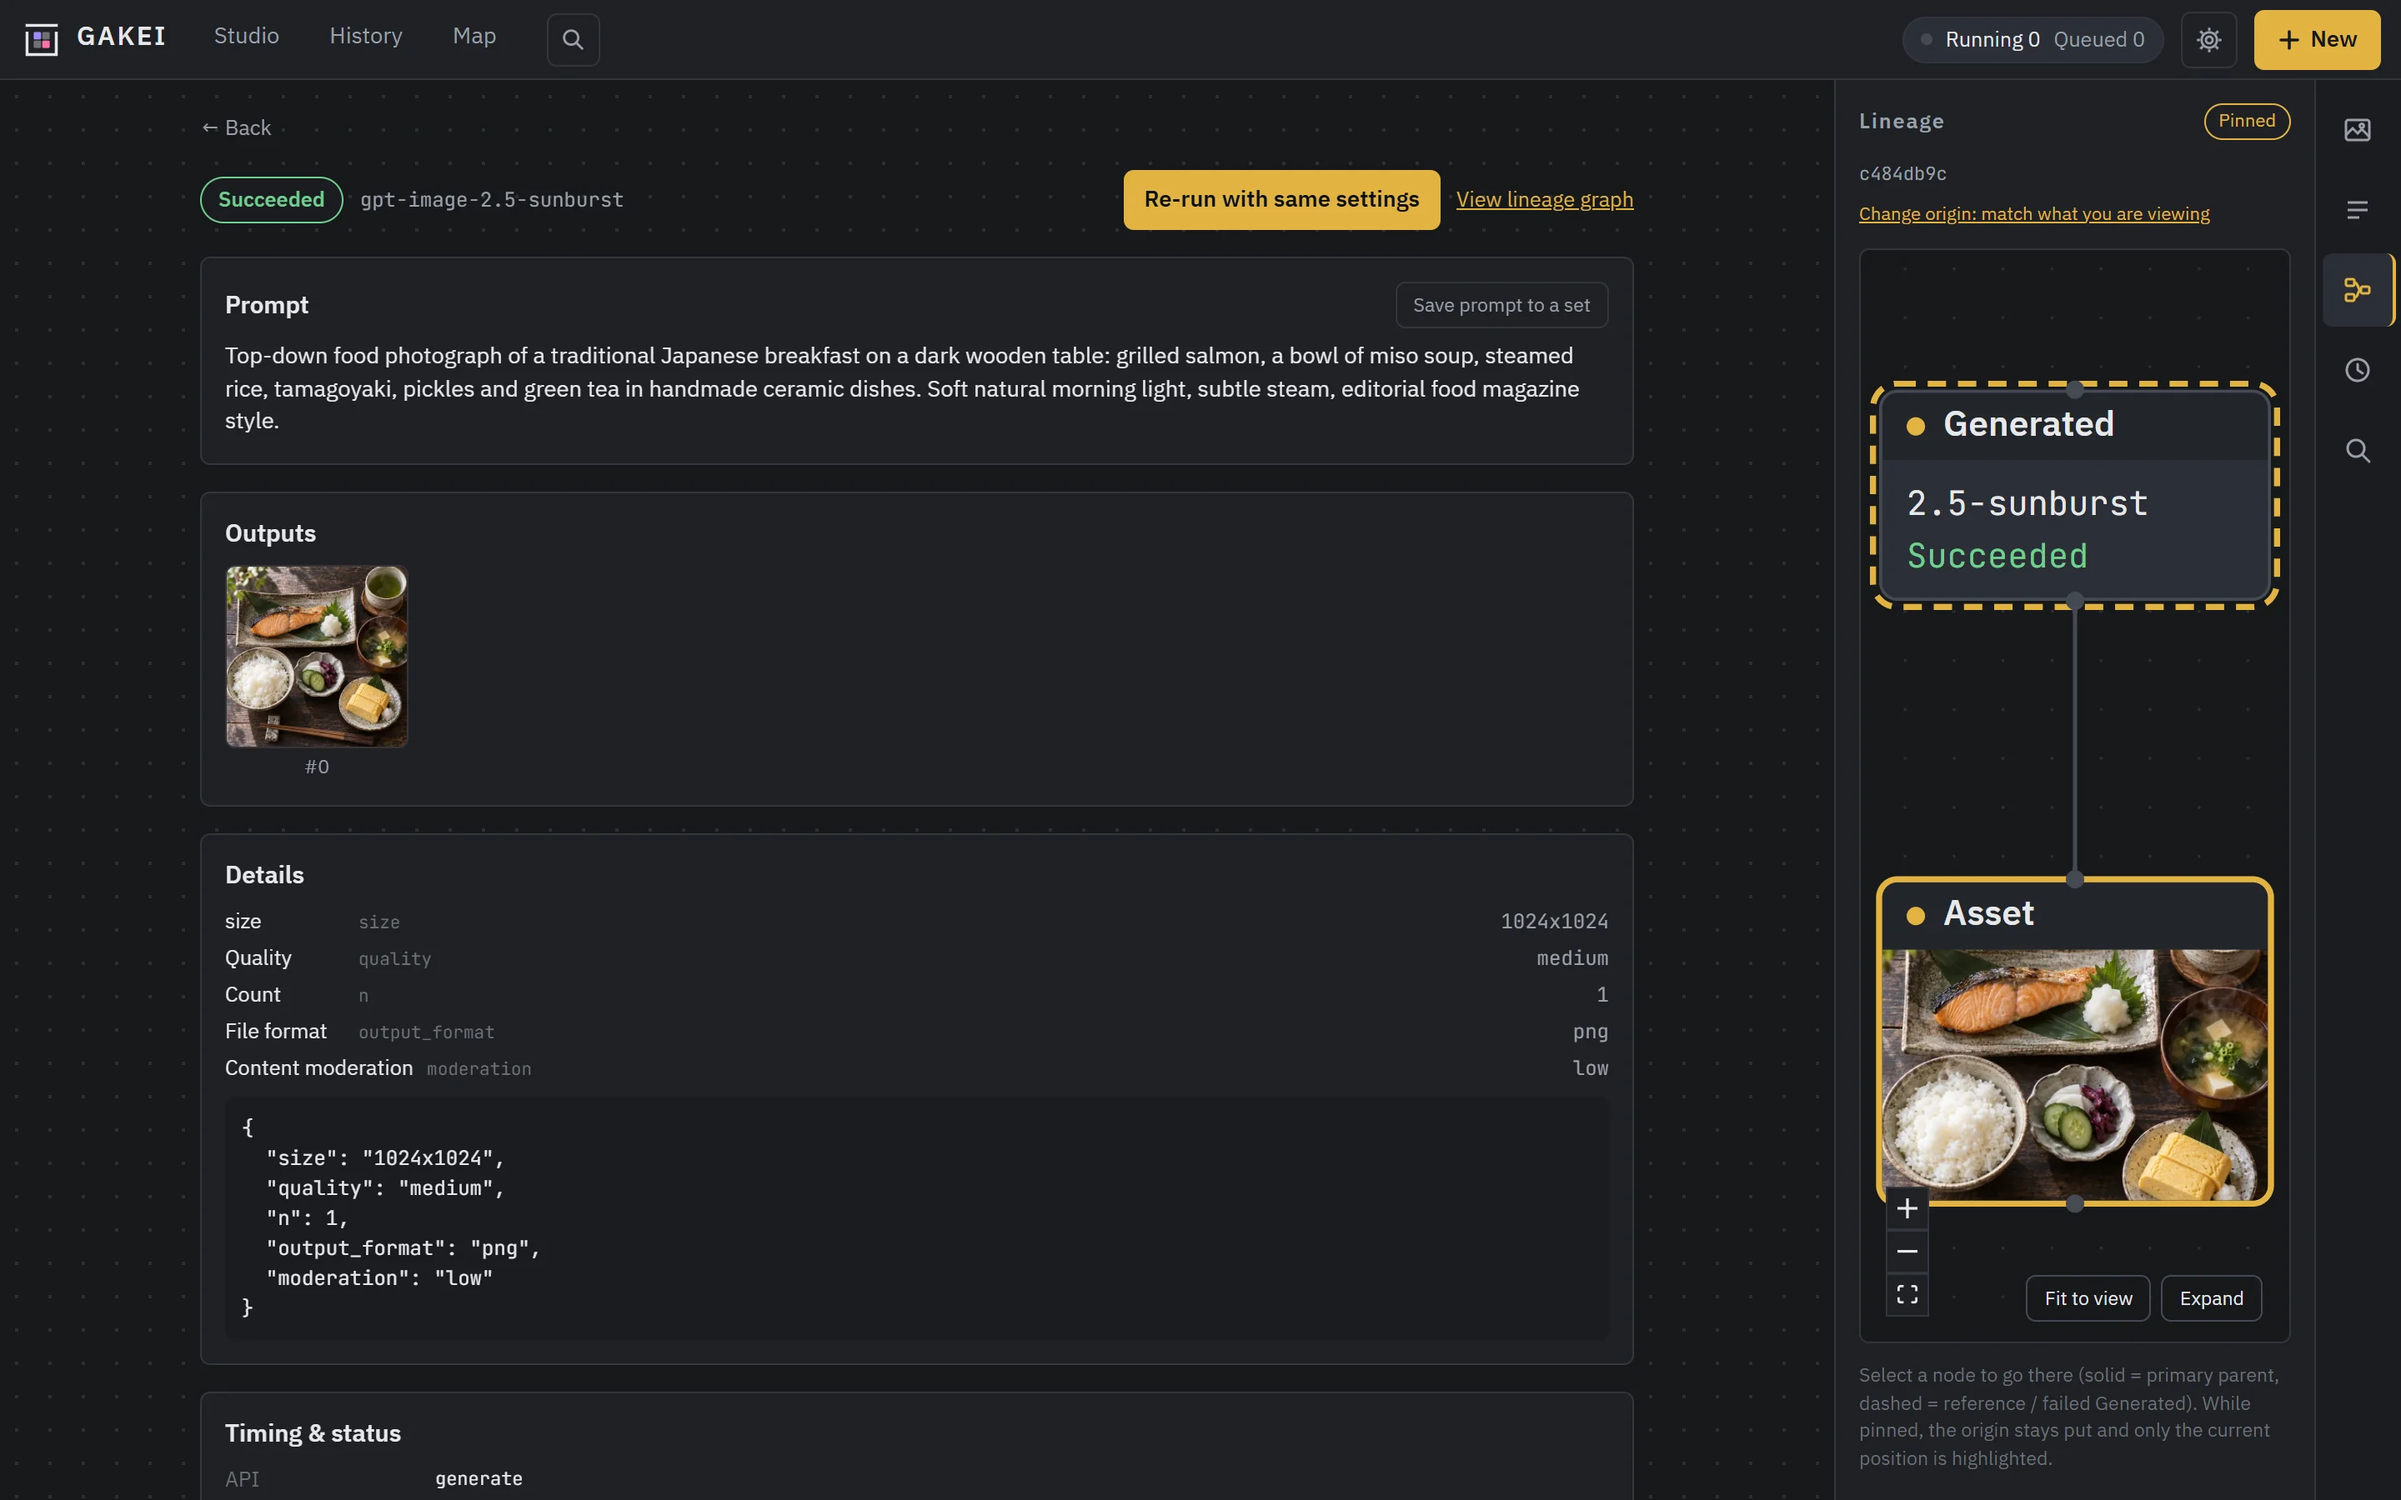
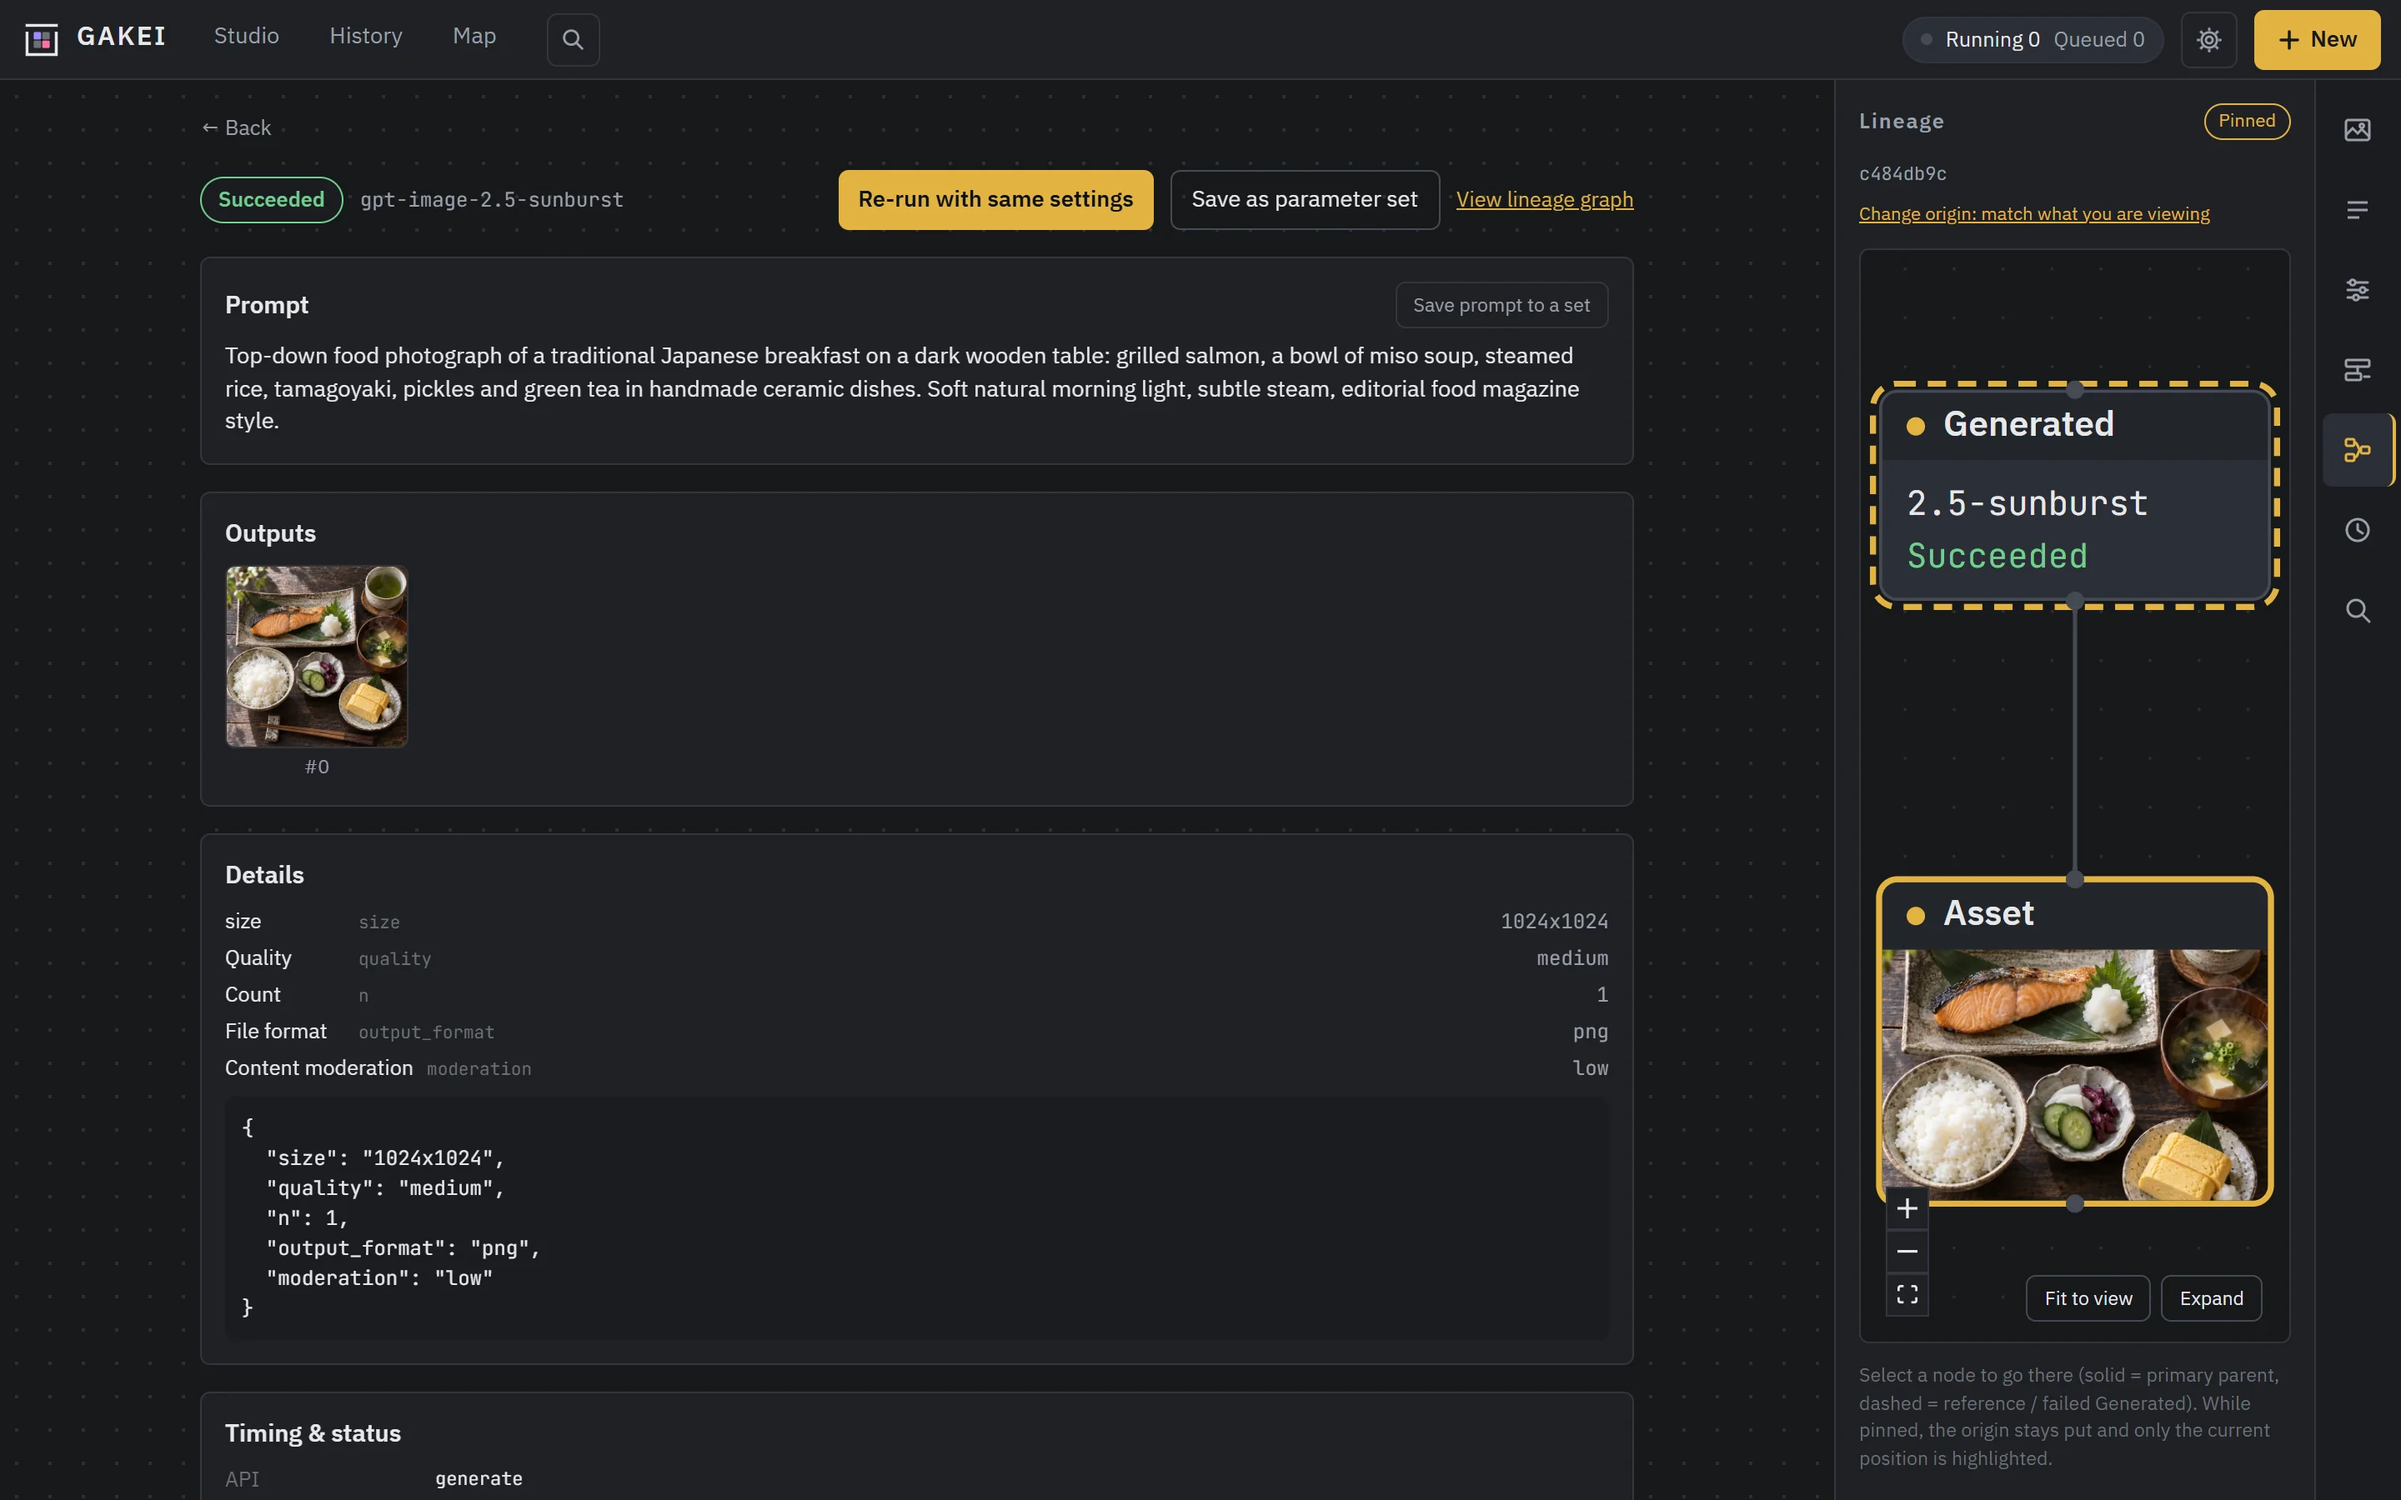
docs: v0.7.0 の画面に合わせてスクリーンショットを撮り直し、マップ内検索と指示での検索を加える
- マップは立体の表示に差し替え、マップの中で文章で探した画面を加えた
- 意味での検索は「画像 / 指示」の切り替えが見える画面にし、指示での検索の画面を加えた
- そのほかの画面も、今のアイコンレールとフォームに合わせて撮り直した

Changed region(s): [[0.3438, 0.0933, 0.625, 0.1556], [0.9688, 0.28, 1.0, 0.3111], [0.9688, 0.1867, 1.0, 0.2178]]

diff --git a/README.md b/README.md
@@ -32,8 +32,10 @@ OpenAI API のキーがあれば動く。画像はローカルのディレクト
 | ![系列グラフ](docs/images/lineage-ja.webp) | ![編集前と比較](docs/images/compare-ja.webp) |
 | **Generated の詳細と系列** | **スケッチを描いて入力にする** |
 | ![Generated の詳細と系列](docs/images/detail-ja.webp) | ![スケッチを描いて入力にする](docs/images/sketch-ja.webp) |
-| **マップ(似た画像のネットワークと系列)** | **意味で検索(「和風の版画」)** |
-| ![マップ(似た画像のネットワークと系列)](docs/images/map-ja.webp) | ![意味で検索(「和風の版画」)](docs/images/semantic-ja.webp) |
+| **マップ(立体。似た画像が近くに集まる)** | **マップの中で文章で探す(「和風の版画」)** |
+| ![マップ(立体。似た画像が近くに集まる)](docs/images/map-ja.webp) | ![マップの中で文章で探す(「和風の版画」)](docs/images/map-search-ja.webp) |
+| **意味で検索(「和風の版画」)** | **指示(プロンプト)で検索(「猫を足す」)** |
+| ![意味で検索(「和風の版画」)](docs/images/semantic-ja.webp) | ![指示(プロンプト)で検索(「猫を足す」)](docs/images/prompt-search-ja.webp) |
 
 スクリーンショット内の画像は、手描きのスケッチを除き GPT Image 2.5 で生成したサンプル。
 

diff --git a/README.en.md b/README.en.md
@@ -31,8 +31,10 @@ All it needs is an OpenAI API key. Images are stored in a local directory and me
 | ![Lineage graph](docs/images/lineage-en.webp) | ![Compare before and after an edit](docs/images/compare-en.webp) |
 | **Run details with the lineage sidebar** | **Drawing a sketch to use as input** |
 | ![Run details with the lineage sidebar](docs/images/detail-en.webp) | ![Drawing a sketch to use as input](docs/images/sketch-en.webp) |
-| **Map (network of similar images with lineage)** | **Semantic search ("Japanese woodblock print")** |
-| ![Map (network of similar images with lineage)](docs/images/map-en.webp) | ![Semantic search ("Japanese woodblock print")](docs/images/semantic-en.webp) |
+| **Map (3D; similar images cluster together)** | **Searching inside the map ("Japanese woodblock print")** |
+| ![Map (3D; similar images cluster together)](docs/images/map-en.webp) | ![Searching inside the map ("Japanese woodblock print")](docs/images/map-search-en.webp) |
+| **Semantic search ("Japanese woodblock print")** | **Prompt search ("add a cat")** |
+| ![Semantic search ("Japanese woodblock print")](docs/images/semantic-en.webp) | ![Prompt search ("add a cat")](docs/images/prompt-search-en.webp) |
 
 Except for the hand-drawn sketches, all images in the screenshots are samples generated with GPT Image 2.5.
 
